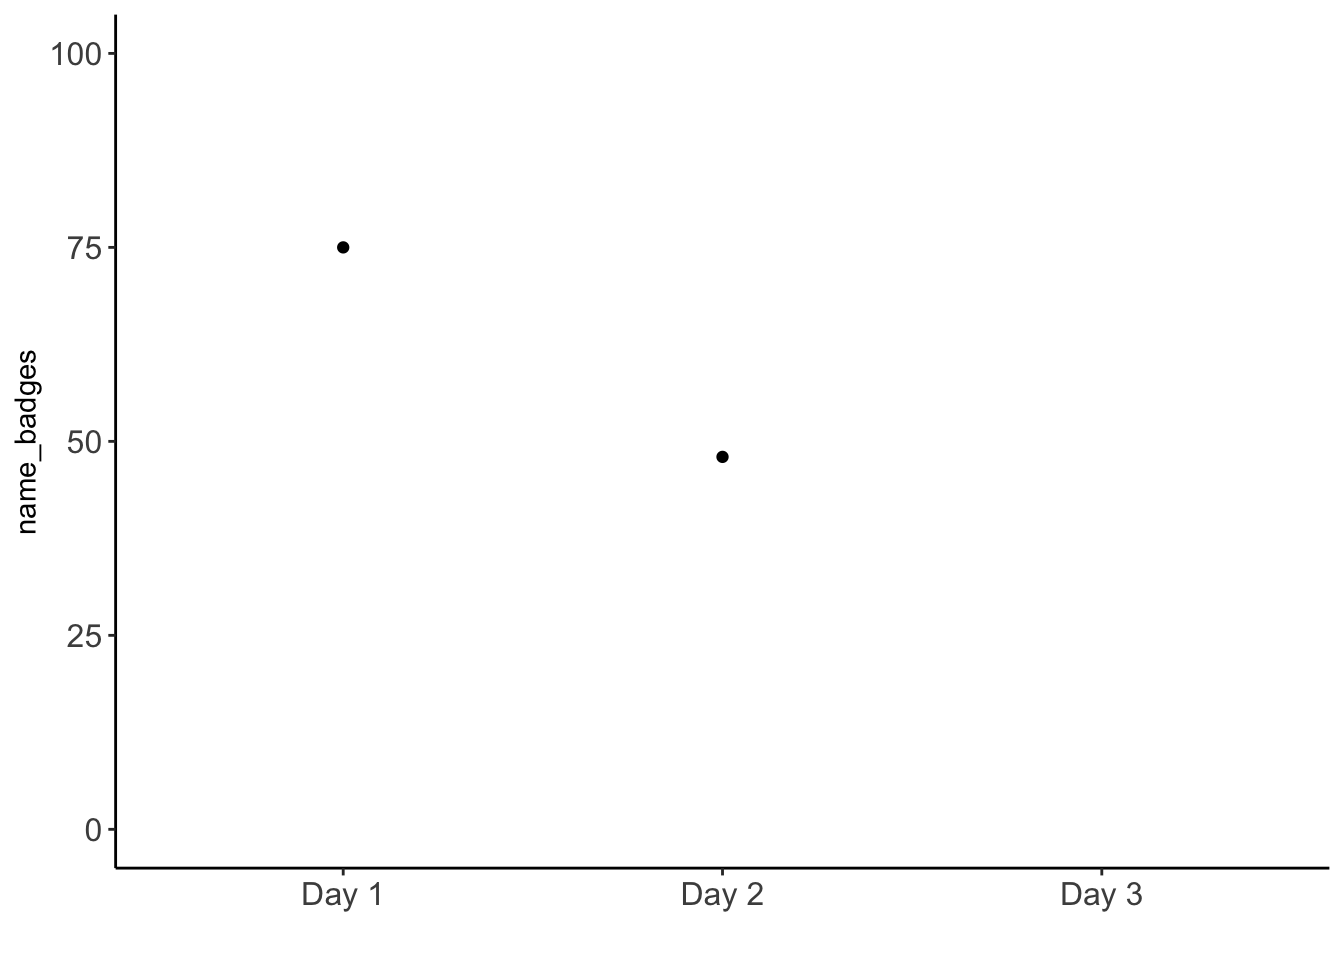
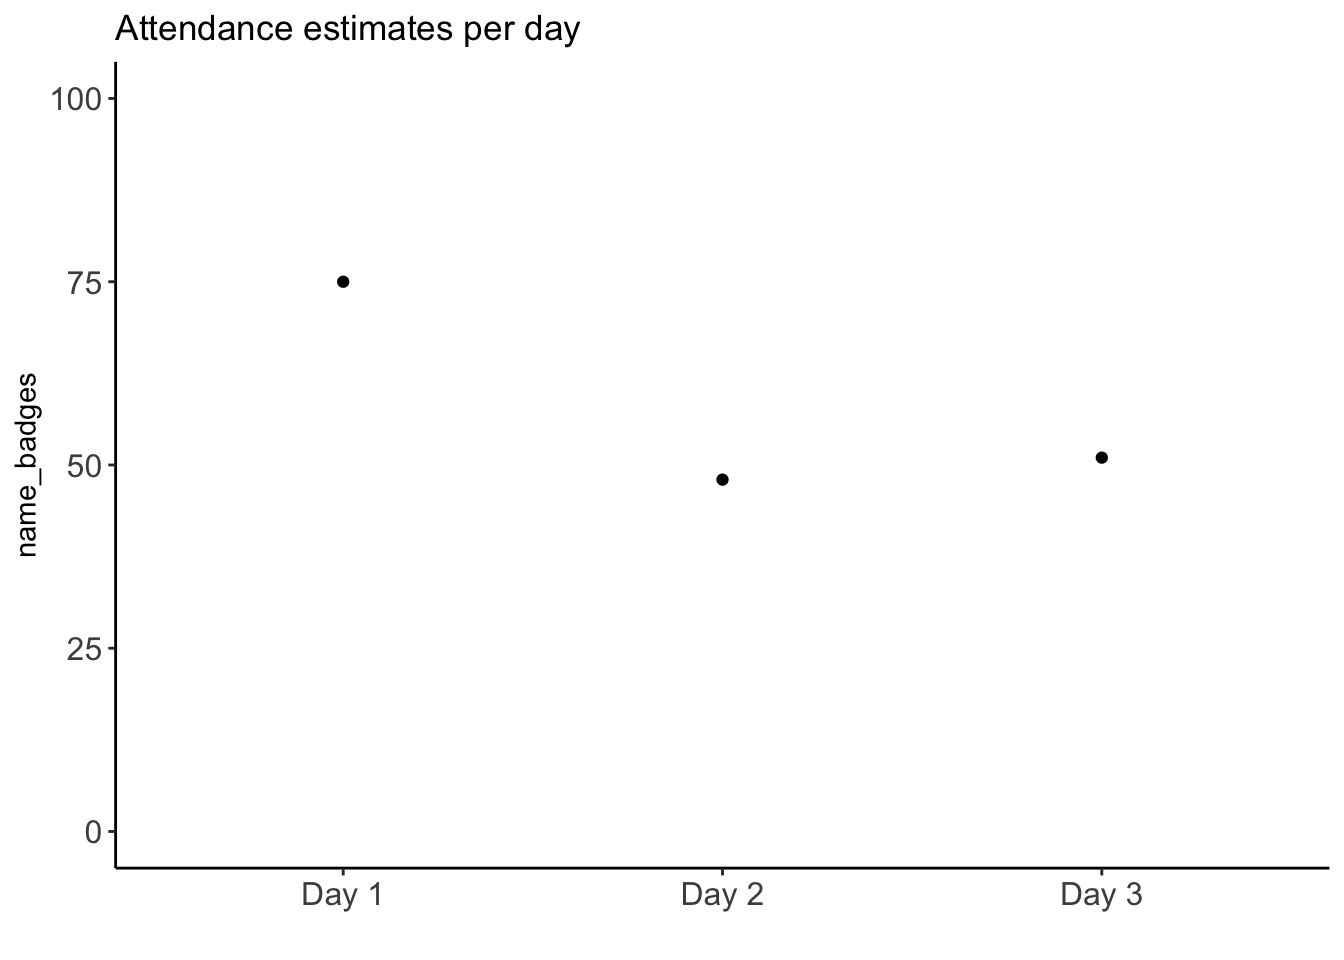
Add Day 3 attendance to index

diff --git a/docs/index.html b/docs/index.html
@@ -338,15 +338,15 @@ $(document).ready(function () {
 <h2>Meeting times and location</h2>
 <p>Wednesday, August 21, 2019, 9:00 am - 12:00 pm (breakfast 8:30 am)</br> Thursday, August 22, 2019, 9:00 am - 12:15 pm (breakfast 8:30 am)</br> Friday, August 23, 2019, 9:00 am - 4:30 pm (breakfast 8:30 am; lunch 12:15 pm)</br></p>
 <pre class="r"><code>library(tidyverse)</code></pre>
-<pre><code>## ── Attaching packages ──────────── tidyverse 1.2.1 ──</code></pre>
+<pre><code>## ── Attaching packages ───────────── tidyverse 1.2.1 ──</code></pre>
 <pre><code>## ✔ ggplot2 3.2.1     ✔ purrr   0.3.2
 ## ✔ tibble  2.1.3     ✔ dplyr   0.8.3
 ## ✔ tidyr   0.8.3     ✔ stringr 1.4.0
 ## ✔ readr   1.3.1     ✔ forcats 0.4.0</code></pre>
-<pre><code>## ── Conflicts ─────────────── tidyverse_conflicts() ──
+<pre><code>## ── Conflicts ──────────────── tidyverse_conflicts() ──
 ## ✖ dplyr::filter() masks stats::filter()
 ## ✖ dplyr::lag()    masks stats::lag()</code></pre>
-<pre class="r"><code>attendees &lt;- data.frame(day=c(&quot;Day 1&quot;, &quot;Day 2&quot;, &quot;Day 3&quot;), name_badges =c(75, 48, NA))
+<pre class="r"><code>attendees &lt;- data.frame(day=c(&quot;Day 1&quot;, &quot;Day 2&quot;, &quot;Day 3&quot;), name_badges =c(75, 48, 51))
 
 attendees %&gt;%
   ggplot(.) +
@@ -355,8 +355,8 @@ attendees %&gt;%
   theme_classic() +
   scale_y_continuous(limits = c(0, 100)) +
   xlab(&quot;&quot;) +
-  theme(axis.text = element_text(size = &quot;1.2em&quot;))</code></pre>
-<pre><code>## Warning: Removed 1 rows containing missing values (geom_point).</code></pre>
+  theme(axis.text = element_text(size = &quot;1.2em&quot;)) +
+  ggtitle(&quot;Attendance estimates per day&quot;)</code></pre>
 <pre><code>## Warning in numnotnull(&quot;fontsize&quot;): NAs introduced by coercion
 
 ## Warning in numnotnull(&quot;fontsize&quot;): NAs introduced by coercion</code></pre>
@@ -372,7 +372,7 @@ attendees %&gt;%
 </div>
 <div id="whos-registered" class="section level2">
 <h2>Who’s registered?</h2>
-<p>Here are some data about the registrants as of 2019-08-23 14:13:01:</p>
+<p>Here are some data about the registrants as of 2019-08-23 15:12:55:</p>
 <p>We have 115 people registered so far. The following table tells us a bit about them. (These data are generated from the GoogleSheet you completed to register. The data are processed entirely in an R-based workflow that updates automatically every time we regenerate this website.)</p>
 <pre class="r"><code># Make table
 pos_dept &lt;- xtabs(formula = ~ position + dept, data = rg)

diff --git a/docs/site-info.html b/docs/site-info.html
@@ -343,11 +343,11 @@ $(document).ready(function () {
 ## loaded via a namespace (and not attached):
 ##  [1] Rcpp_1.0.2       highr_0.8        cellranger_1.1.0 pillar_1.4.2    
 ##  [5] compiler_3.6.1   tools_3.6.1      zeallot_0.1.0    digest_0.6.20   
-##  [9] lubridate_1.7.4  jsonlite_1.6     evaluate_0.14    gtable_0.3.0    
-## [13] nlme_3.1-140     lattice_0.20-38  pkgconfig_2.0.2  rlang_0.4.0     
+##  [9] lubridate_1.7.4  jsonlite_1.6     evaluate_0.14    nlme_3.1-140    
+## [13] gtable_0.3.0     lattice_0.20-38  pkgconfig_2.0.2  rlang_0.4.0     
 ## [17] cli_1.1.0        rstudioapi_0.10  yaml_2.2.0       haven_2.1.1     
 ## [21] xfun_0.9         withr_2.1.2      xml2_1.2.2       httr_1.4.1      
-## [25] knitr_1.24       generics_0.0.2   vctrs_0.2.0      hms_0.5.0       
+## [25] knitr_1.24       vctrs_0.2.0      generics_0.0.2   hms_0.5.0       
 ## [29] grid_3.6.1       tidyselect_0.2.5 glue_1.3.1       R6_2.4.0        
 ## [33] readxl_1.3.1     rmarkdown_1.15   modelr_0.1.5     magrittr_1.5    
 ## [37] backports_1.1.4  scales_1.0.0     htmltools_0.3.6  rvest_0.3.4     

diff --git a/docs/rstudio-tlt.html b/docs/rstudio-tlt.html
@@ -386,7 +386,7 @@ div.tocify {
 
 <h1 class="title toc-ignore">Using RStudio Server @ Penn State</h1>
 <h4 class="author">Rick Gilmore</h4>
-<h4 class="date">2019-08-23 14:13:05</h4>
+<h4 class="date">2019-08-23 15:12:58</h4>
 
 </div>
 
